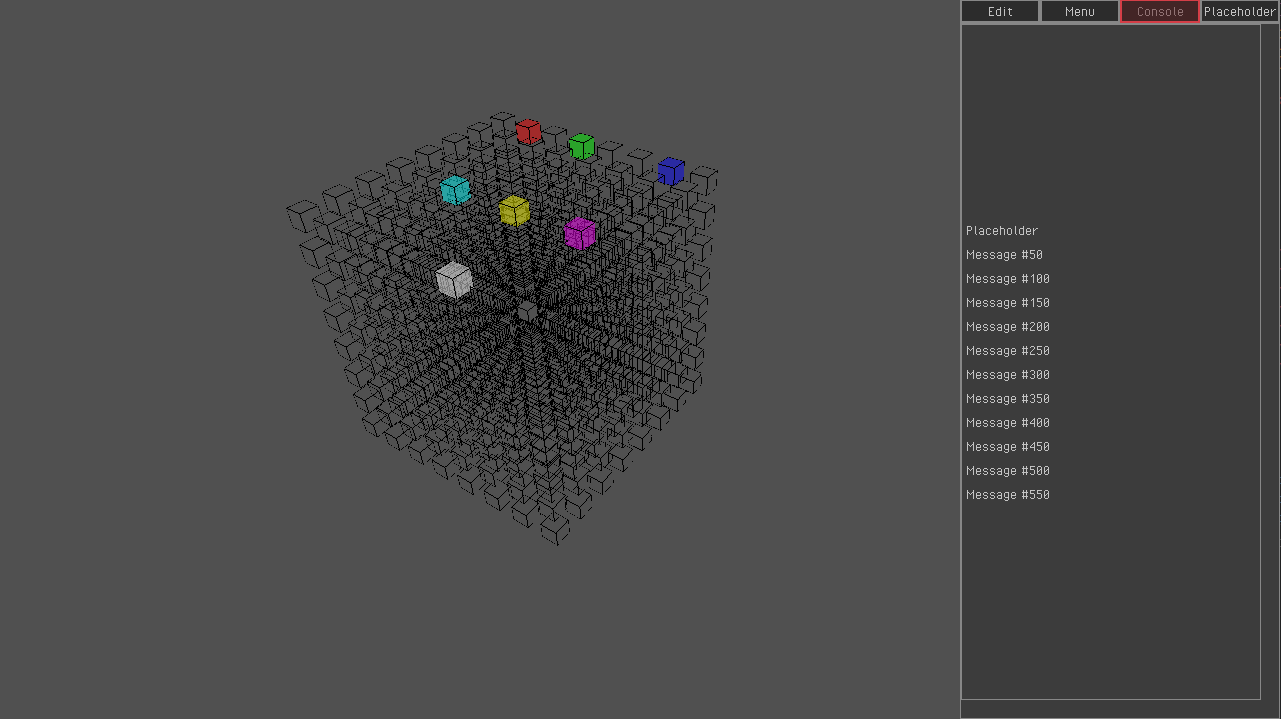
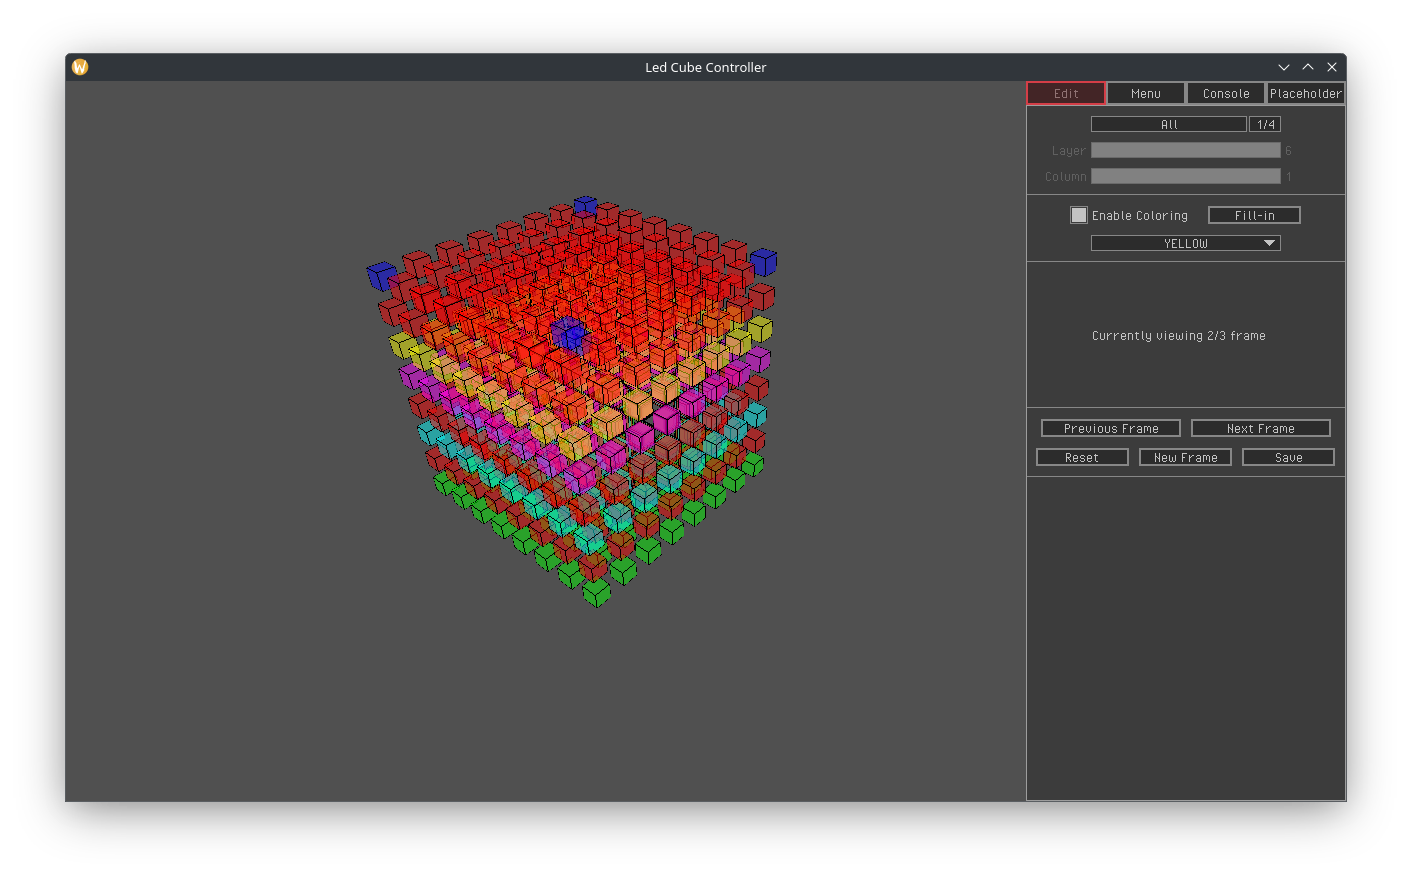
bug fix and progress update

diff --git a/internal/ui/window.go b/internal/ui/window.go
@@ -28,6 +28,8 @@ type Window struct {
 
 	hud      component.Renderer
 	cubeGrid component.Renderer
+
+	config WindowConfig
 }
 
 func NewWindow(configFuncs ...WindowConfigFunc) *Window {
@@ -39,11 +41,7 @@ func NewWindow(configFuncs ...WindowConfigFunc) *Window {
 	return &Window{
 		width:  config.WindowWidth,
 		height: config.WindowHeight,
-		cubeGrid: NewCubeGrid(
-			config.CubeBaseSize,
-			config.CubeBaseSize,
-			config.CubeHeight,
-			raylib.NewVector3(1, 1, 1)),
+		config: config,
 	}
 }
 
@@ -54,6 +52,11 @@ func (this *Window) Start() {
 
 	style.LoadStyle()
 	this.hud = NewPanelControler()
+	this.cubeGrid = NewCubeGrid(
+		this.config.CubeBaseSize,
+		this.config.CubeBaseSize,
+		this.config.CubeHeight,
+		raylib.NewVector3(1, 1, 1))
 }
 
 func (_ *Window) Stop() {